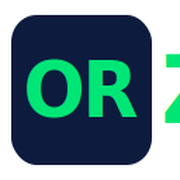
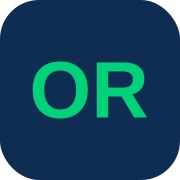
Ajoute manifeste PWA propre avec icones maskable ORZAYAH

diff --git a/client/index.html b/client/index.html
@@ -12,6 +12,7 @@
     <link rel="preconnect" href="https://fonts.googleapis.com" />
     <link rel="preconnect" href="https://fonts.gstatic.com" crossorigin />
     <link href="https://fonts.googleapis.com/css2?family=Inter:wght@300;400;500;600;700&family=Poppins:wght@600;700;800&display=swap" rel="stylesheet" />
+    <link rel="manifest" href="/manifest.json" />
   </head>
   <body>
     <div id="root"></div>
